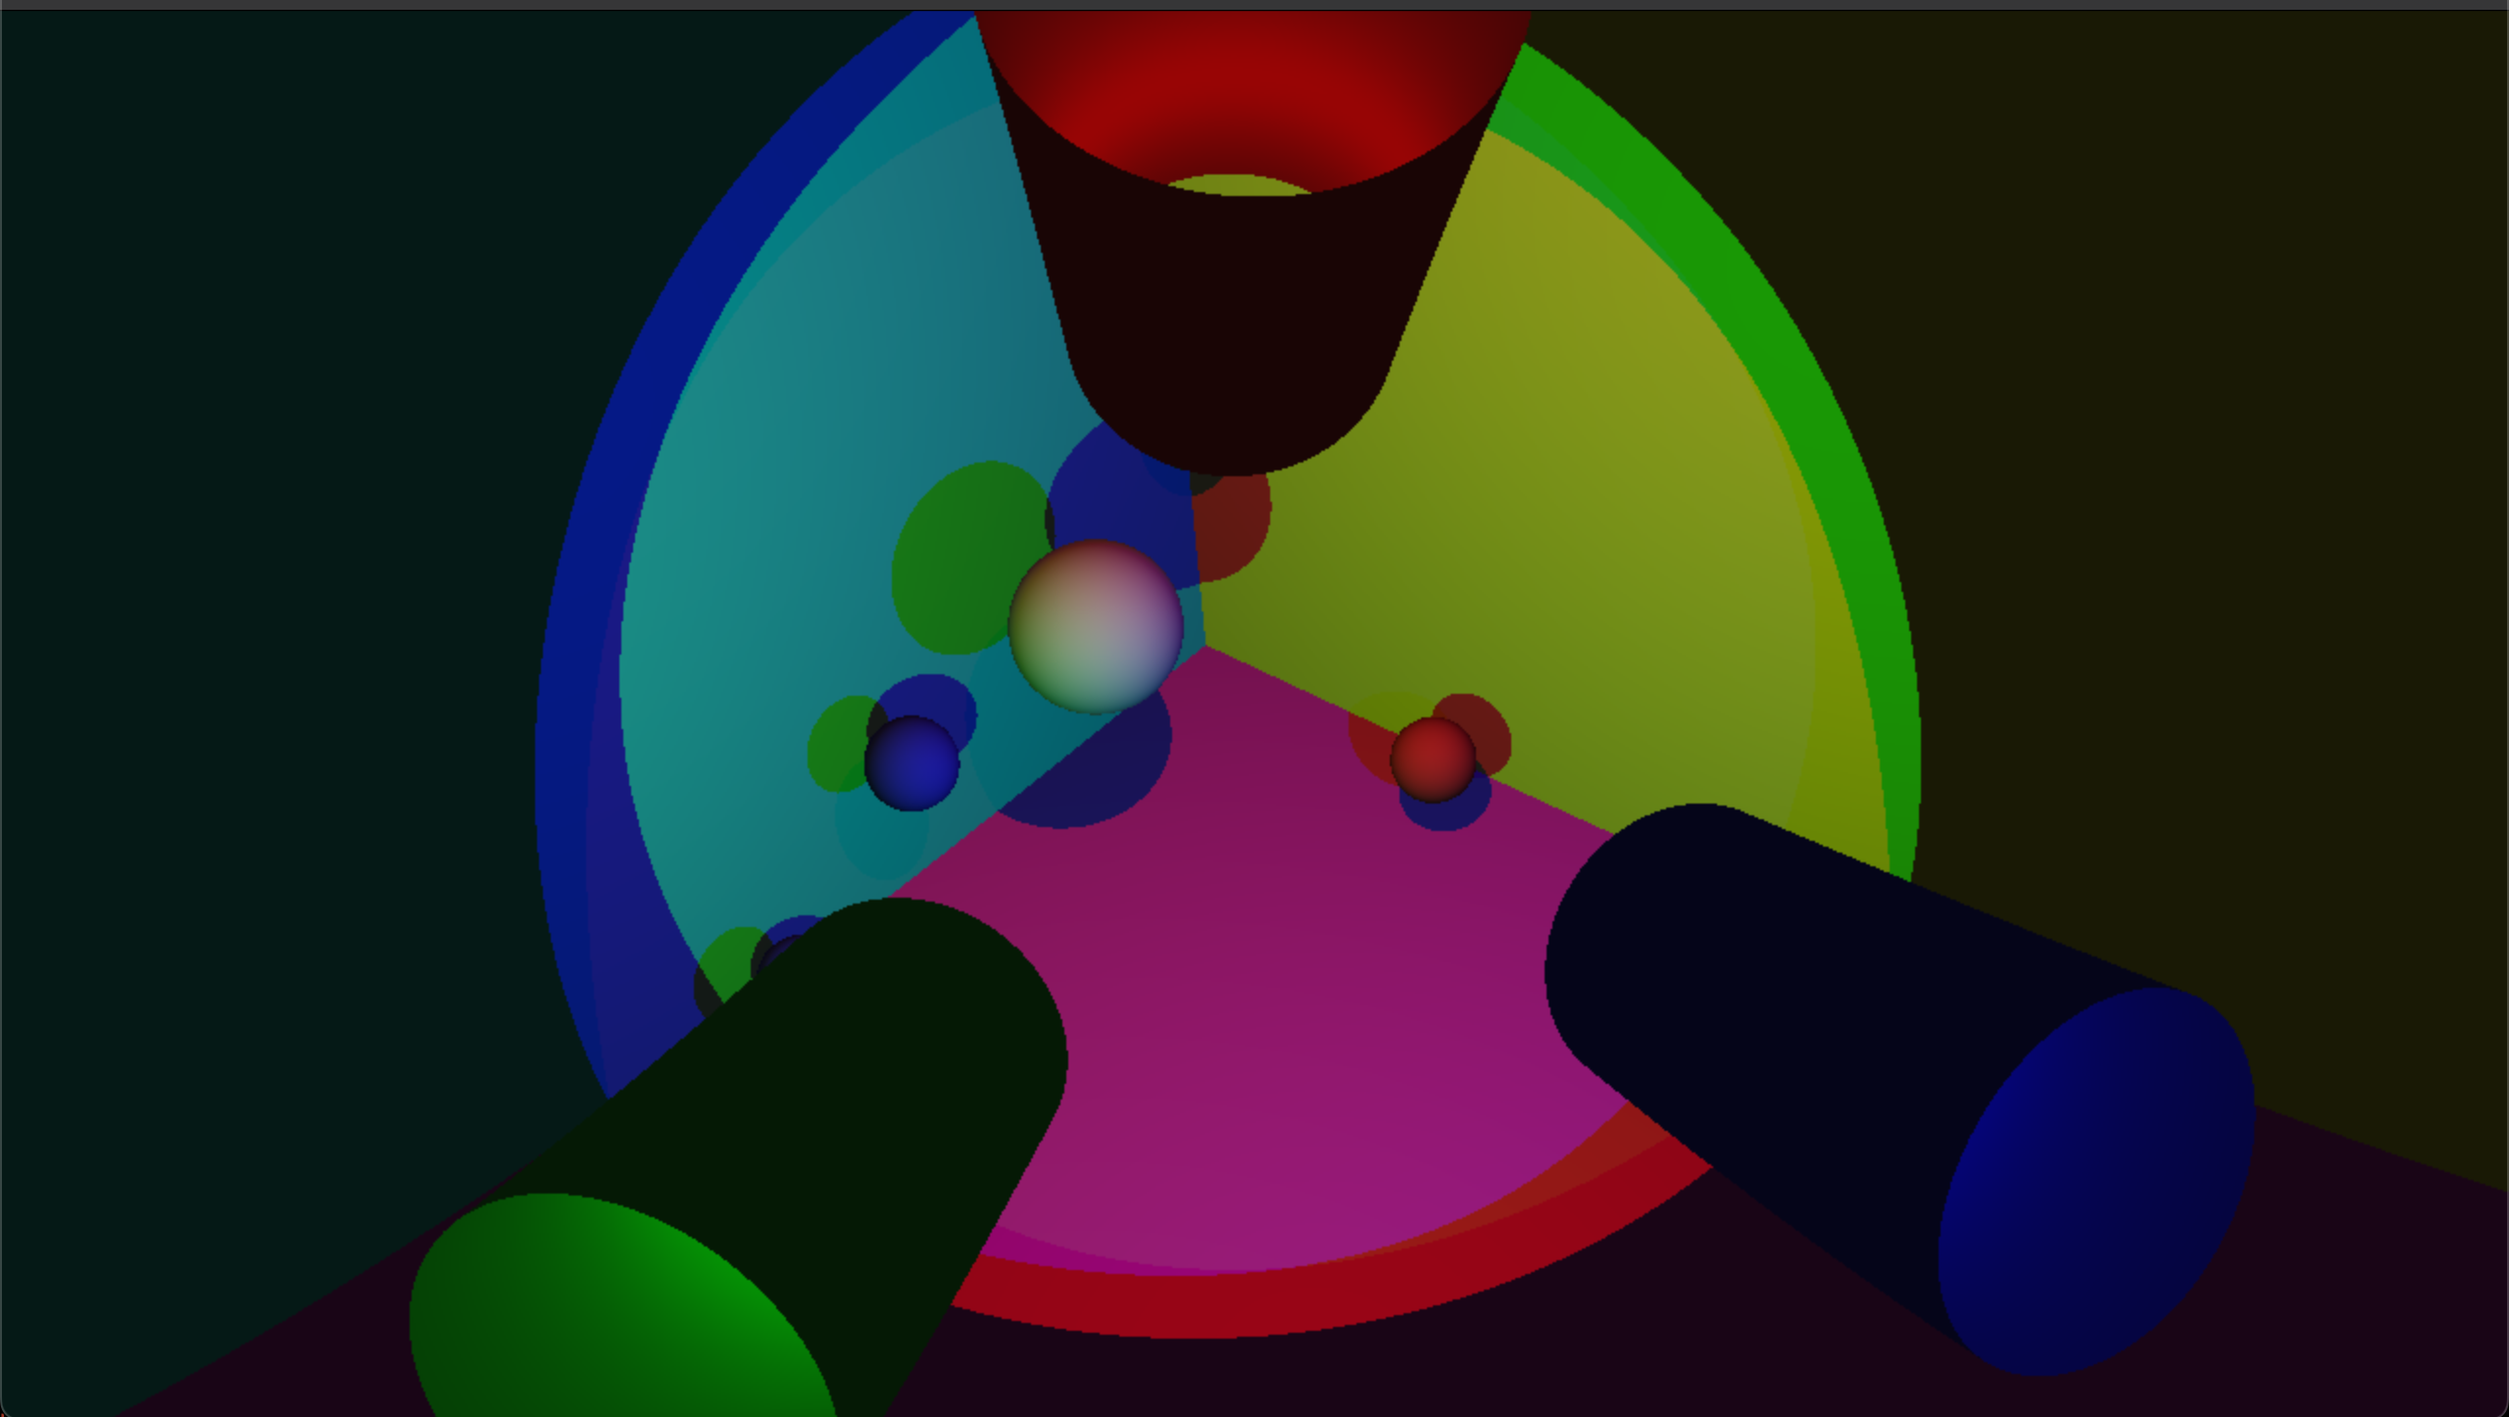
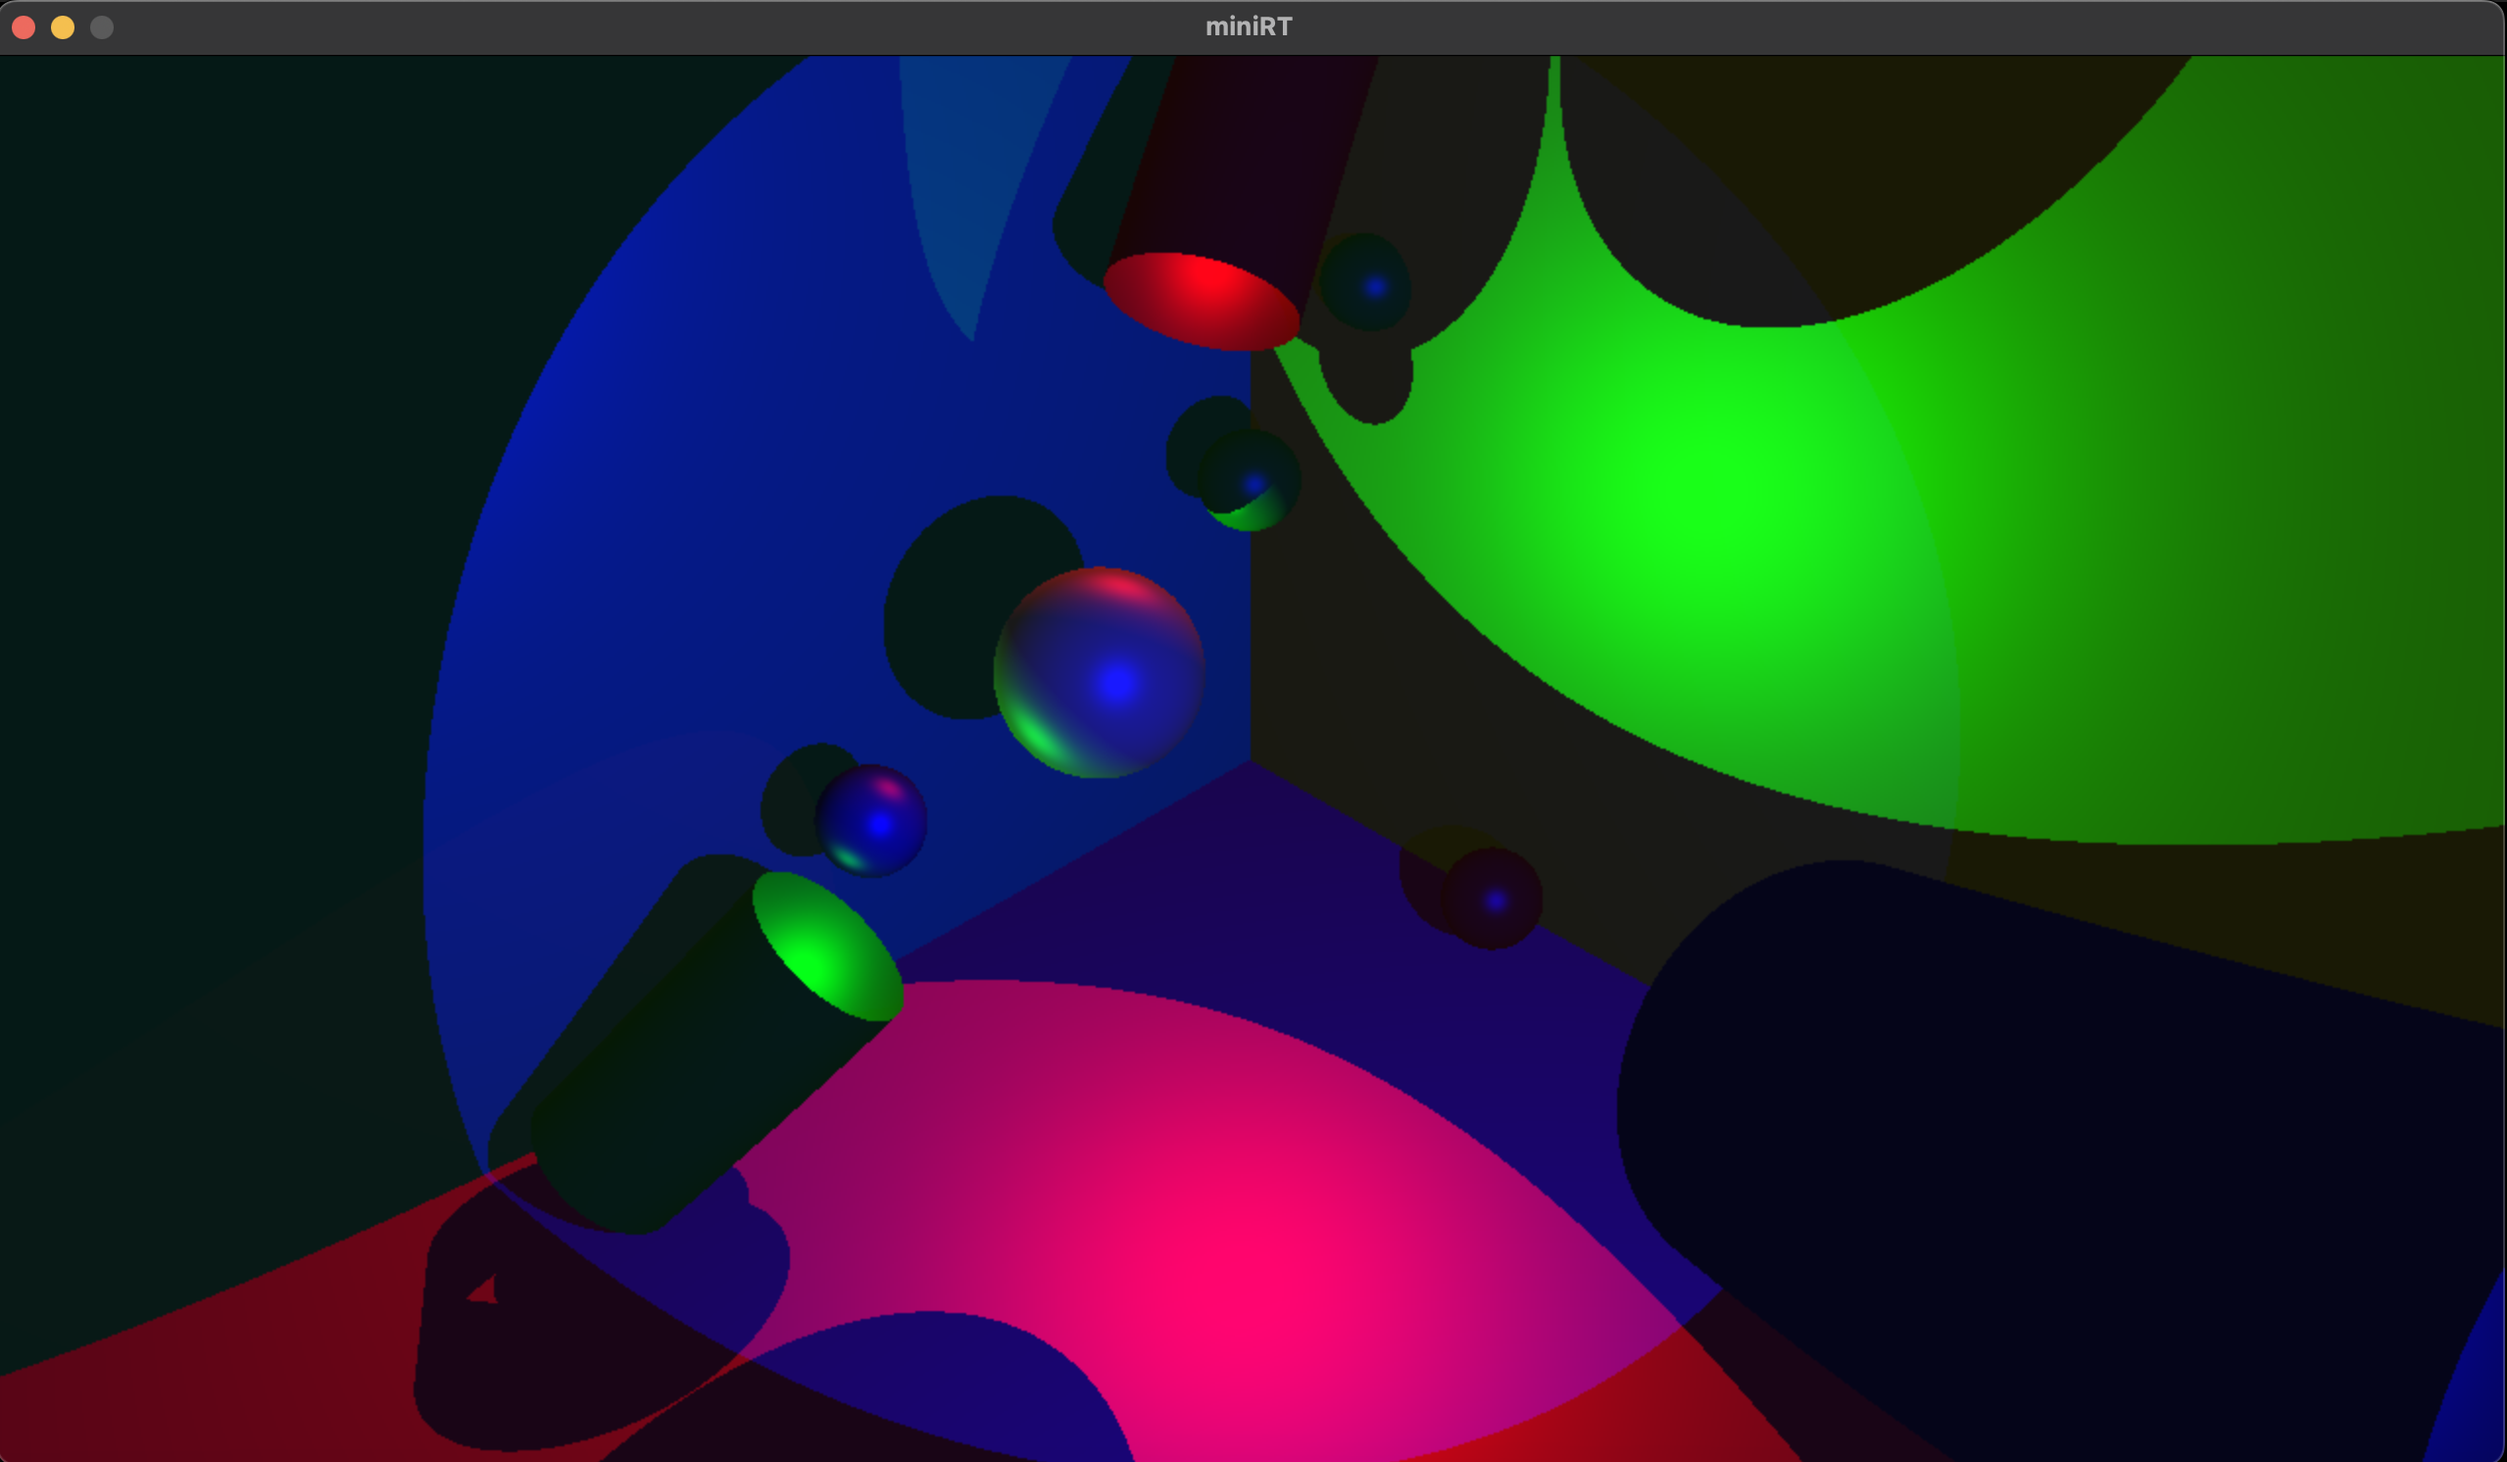
new     :   Added specular light process
modified:   Makefile
	modified:   README.md
	modified:   hdr/dataRT.h
	modified:   hdr/miniRT.h
	modified:   maps/test.rt
	modified:   render.png
	modified:   src/ft_addrgb.c
	modified:   src/ft_ambrgb.c
	modified:   src/ft_ligrgb.c
	modified:   src/ft_pars_coord_rgb.c
	modified:   src/ft_raytra.c
	modified:   src/ft_rgbtoi.c
	modified:   src/ft_setrgb.c
	modified:   src/ft_shades.c

diff --git a/hdr/miniRT.h b/hdr/miniRT.h
@@ -6,7 +6,7 @@
 /*   By: efunes <efunes@student.42.fr>              +#+  +:+       +#+        */
 /*                                                +#+#+#+#+#+   +#+           */
 /*   Created: 2022/11/25 00:15:04 by alfux             #+#    #+#             */
-/*   Updated: 2023/01/13 12:43:38 by alfux            ###   ########.fr       */
+/*   Updated: 2023/01/24 01:24:24 by alfux            ###   ########.fr       */
 /*                                                                            */
 /* ************************************************************************** */
 
@@ -76,8 +76,9 @@ t_list		*ft_syscyl(t_vec const *dir, t_vec const *pov, t_cyl const *cyl);
 double		ft_cylhgt(t_vec const *p, t_cyl const *c);
 int			ft_is_val(t_vec const *v);
 t_rgb		ft_addrgb(t_rgb c1, t_rgb c2);
-t_rgb		ft_ligrgb(t_rgb const *rgb, t_lig const *lig, double i);
 t_rgb		ft_ambrgb(t_rgb const *rgb, t_amb const *amb);
+t_rgb		ft_ligrgb(t_itr const *vtx, t_vec const *ray, t_lig const *lig,
+				double i);
 
 //Other tools
 int			ft_free(void *ptr);
@@ -108,7 +109,7 @@ void		ft_render(t_win const *win);
 t_vec		ft_getdir(t_win const *win, uint32_t i, uint32_t j);
 uint32_t	ft_raytra(t_win const *win, t_vec const *ray, t_obj const *obj);
 int			ft_deadzn(t_vec const *vec, t_vec const *ctr, double rad);
-t_rgb		ft_shades(t_win const *win, t_list *itr);
+t_rgb		ft_shades(t_win const *win, t_vec const *ray, t_list *itr);
 
 //Easter eggs
 void		ft_eeggs(t_cam *cam);

diff --git a/src/ft_ligrgb.c b/src/ft_ligrgb.c
@@ -6,18 +6,29 @@
 /*   By: alfux <alexis.t.fuchs@gmail.com>           +#+  +:+       +#+        */
 /*                                                +#+#+#+#+#+   +#+           */
 /*   Created: 2023/01/11 12:47:21 by alfux             #+#    #+#             */
-/*   Updated: 2023/01/13 14:13:23 by alfux            ###   ########.fr       */
+/*   Updated: 2023/01/24 01:18:26 by alfux            ###   ########.fr       */
 /*                                                                            */
 /* ************************************************************************** */
 
 #include <miniRT.h>
 
-t_rgb	ft_ligrgb(t_rgb const *rgb, t_lig const *lig, double i)
+t_rgb	ft_ligrgb(t_itr const *vtx, t_vec const *ray, t_lig const *lig,
+	double i)
 {
 	t_rgb	res;
+	t_vec	dir;
+	double	j;
 
-	res.r = lig->col.r * lig->rat * i * rgb->r / 255;
-	res.g = lig->col.g * lig->rat * i * rgb->g / 255;
-	res.b = lig->col.b * lig->rat * i * rgb->b / 255;
+	j = 0;
+	if (i > 0)
+	{
+		dir = ft_dif_uv(lig->pos, vtx->vtx);
+		dir = ft_dif_uv(ft_multlv(2 * ft_scalar(dir, vtx->nml), vtx->nml), dir);
+		j = fmin(1,
+				lig->rat * pow(fmax(0, -ft_scalar(ft_nrmlze(dir), *ray)), 10));
+	}
+	res.r = lig->col.r * fmin(1, j + lig->rat * i * vtx->col.r / 255);
+	res.g = lig->col.g * fmin(1, j + lig->rat * i * vtx->col.g / 255);
+	res.b = lig->col.b * fmin(1, j + lig->rat * i * vtx->col.b / 255);
 	return (res);
 }

diff --git a/src/ft_shades.c b/src/ft_shades.c
@@ -6,7 +6,7 @@
 /*   By: alfux <alexis.t.fuchs@gmail.com>           +#+  +:+       +#+        */
 /*                                                +#+#+#+#+#+   +#+           */
 /*   Created: 2023/01/05 17:21:09 by alfux             #+#    #+#             */
-/*   Updated: 2023/01/13 12:42:02 by alfux            ###   ########.fr       */
+/*   Updated: 2023/01/24 00:24:53 by alfux            ###   ########.fr       */
 /*                                                                            */
 /* ************************************************************************** */
 
@@ -73,7 +73,7 @@ static int	ft_shadow(t_win const *win, t_vec const *vtx, t_vec const *lpos)
 	return (0);
 }
 
-t_rgb	ft_shades(t_win const *win, t_list *itr)
+t_rgb	ft_shades(t_win const *win, t_vec const *ray, t_list *itr)
 {
 	double	i;
 	t_obj	*lst;
@@ -94,7 +94,7 @@ t_rgb	ft_shades(t_win const *win, t_list *itr)
 			i = fabs(i);
 		if (ft_shadow(win, &vtx->vtx, &lig->pos))
 			i = 0;
-		rgb = ft_addrgb(rgb, ft_ligrgb(&vtx->col, lig, i));
+		rgb = ft_addrgb(rgb, ft_ligrgb(vtx, ray, lig, i));
 		lst = lst->next;
 	}
 	rgb = ft_addrgb(rgb, ft_ambrgb(&vtx->col, &win->scn.amb));

diff --git a/src/ft_addrgb.c b/src/ft_addrgb.c
@@ -6,7 +6,7 @@
 /*   By: alfux <alexis.t.fuchs@gmail.com>           +#+  +:+       +#+        */
 /*                                                +#+#+#+#+#+   +#+           */
 /*   Created: 2023/01/11 14:32:52 by alfux             #+#    #+#             */
-/*   Updated: 2023/01/13 15:08:09 by alfux            ###   ########.fr       */
+/*   Updated: 2023/01/24 00:25:55 by alfux            ###   ########.fr       */
 /*                                                                            */
 /* ************************************************************************** */
 
@@ -14,16 +14,10 @@
 
 t_rgb	ft_addrgb(t_rgb c1, t_rgb c2)
 {
-	uint16_t	r;
-	uint16_t	g;
-	uint16_t	b;
-	uint16_t	max;
+	t_rgb	sum;
 
-	r = c1.r + c2.r;
-	g = c1.g + c2.g;
-	b = c1.b + c2.b;
-	max = fmax(fmax(r, g), b);
-	if (r > 255 || g > 255 || b > 255)
-		return (ft_setrgb(r * 255 / max, g * 255 / max, b * 255 / max));
-	return (ft_setrgb(r, g, b));
+	sum.r = fmin(255, c1.r + c2.r);
+	sum.g = fmin(255, c1.g + c2.g);
+	sum.b = fmin(255, c1.b + c2.b);
+	return (sum);
 }

diff --git a/src/ft_pars_coord_rgb.c b/src/ft_pars_coord_rgb.c
@@ -6,7 +6,7 @@
 /*   By: efunes <efunes@student.42.fr>              +#+  +:+       +#+        */
 /*                                                +#+#+#+#+#+   +#+           */
 /*   Created: 2022/12/22 18:23:33 by efunes            #+#    #+#             */
-/*   Updated: 2022/12/30 13:17:08 by efunes           ###   ########.fr       */
+/*   Updated: 2023/01/19 21:11:39 by alfux            ###   ########.fr       */
 /*                                                                            */
 /* ************************************************************************** */
 
@@ -125,8 +125,8 @@ int	ft_rgb(t_rgb *rgb, char **str)
 	if (tmp[0] > 255 || tmp[1] > 255 || tmp[2] > 255
 		|| tmp[0] < 0 || tmp[1] < 0 || tmp[2] < 0)
 		return (5);
-	rgb->r = (char)tmp[0];
-	rgb->g = (char)tmp[1];
-	rgb->b = (char)tmp[2];
+	rgb->r = (unsigned char)tmp[0];
+	rgb->g = (unsigned char)tmp[1];
+	rgb->b = (unsigned char)tmp[2];
 	return (ft_opacity(rgb, str));
 }

diff --git a/src/ft_raytra.c b/src/ft_raytra.c
@@ -6,7 +6,7 @@
 /*   By: alfux <alexis.t.fuchs@gmail.com>           +#+  +:+       +#+        */
 /*                                                +#+#+#+#+#+   +#+           */
 /*   Created: 2023/01/05 16:46:15 by alfux             #+#    #+#             */
-/*   Updated: 2023/01/05 19:57:33 by alfux            ###   ########.fr       */
+/*   Updated: 2023/01/17 08:41:00 by alfux            ###   ########.fr       */
 /*                                                                            */
 /* ************************************************************************** */
 
@@ -77,7 +77,7 @@ uint32_t	ft_raytra(t_win const *win, t_vec const *ray, t_obj const *obj)
 	ft_keep_face_cam(&itr, &win->scn.cam->pov, ray);
 	if (!itr)
 		return (0);
-	rgb = ft_shades(win, ft_closer_to_pov(itr, &win->scn.cam->pov));
+	rgb = ft_shades(win, ray, ft_closer_to_pov(itr, &win->scn.cam->pov));
 	ft_lstclear(&itr, &free);
 	return (ft_rgbtoi(rgb));
 }

diff --git a/hdr/dataRT.h b/hdr/dataRT.h
@@ -6,7 +6,7 @@
 /*   By: efunes <efunes@student.42.fr>              +#+  +:+       +#+        */
 /*                                                +#+#+#+#+#+   +#+           */
 /*   Created: 2022/11/25 00:15:04 by alfux             #+#    #+#             */
-/*   Updated: 2023/01/11 15:43:21 by alfux            ###   ########.fr       */
+/*   Updated: 2023/01/24 00:22:39 by alfux            ###   ########.fr       */
 /*                                                                            */
 /* ************************************************************************** */
 
@@ -73,10 +73,10 @@ typedef struct s_3x3	t_3x3;
 //Color data structure
 struct					s_rgb
 {
+	unsigned char	a;
 	unsigned char	r;
 	unsigned char	g;
 	unsigned char	b;
-	unsigned char	a;
 };
 typedef struct s_rgb	t_rgb;
 

diff --git a/src/ft_rgbtoi.c b/src/ft_rgbtoi.c
@@ -6,12 +6,12 @@
 /*   By: alfux <alexis.t.fuchs@gmail.com>           +#+  +:+       +#+        */
 /*                                                +#+#+#+#+#+   +#+           */
 /*   Created: 2022/12/08 12:10:23 by alfux             #+#    #+#             */
-/*   Updated: 2022/12/08 12:11:22 by alfux            ###   ########.fr       */
+/*   Updated: 2023/01/23 20:41:55 by alfux            ###   ########.fr       */
 /*                                                                            */
 /* ************************************************************************** */
 #include <miniRT.h>
 
 uint32_t	ft_rgbtoi(t_rgb rgb)
 {
-	return (rgb.b + (rgb.g << 8) + (rgb.r << 16));
+	return (rgb.b + (rgb.g << 8) + (rgb.r << 16) + (0 << 24));
 }

diff --git a/src/ft_setrgb.c b/src/ft_setrgb.c
@@ -6,7 +6,7 @@
 /*   By: alfux <alexis.t.fuchs@gmail.com>           +#+  +:+       +#+        */
 /*                                                +#+#+#+#+#+   +#+           */
 /*   Created: 2022/11/28 12:39:55 by alfux             #+#    #+#             */
-/*   Updated: 2022/11/28 12:41:11 by alfux            ###   ########.fr       */
+/*   Updated: 2023/01/24 00:25:33 by alfux            ###   ########.fr       */
 /*                                                                            */
 /* ************************************************************************** */
 #include <miniRT.h>

diff --git a/src/ft_ambrgb.c b/src/ft_ambrgb.c
@@ -6,7 +6,7 @@
 /*   By: alfux <alexis.t.fuchs@gmail.com>           +#+  +:+       +#+        */
 /*                                                +#+#+#+#+#+   +#+           */
 /*   Created: 2023/01/11 17:51:23 by alfux             #+#    #+#             */
-/*   Updated: 2023/01/13 14:14:03 by alfux            ###   ########.fr       */
+/*   Updated: 2023/01/24 00:24:39 by alfux            ###   ########.fr       */
 /*                                                                            */
 /* ************************************************************************** */
 

diff --git a/README.md b/README.md
@@ -17,7 +17,8 @@
 <br />☛ Wednesday December 28th 04:28: We can now move camera properly in low resolution
 <br />☛ Thursday December 29th 01:12: Changed float for double to improve precision
 <br />☛	Friday January 6th 17:17: Added full support of .obj files. (Heavy operations tho)
-<br />☛	Friday Janyary 13th 15:09: Added multi-lightning and color-lightning
+<br />☛	Friday January 13th 15:09: Added multi-lightning and color-lightning
+<br />☛ Tuesday January 24th 01:19: Added Specular reflections
 ## Bonus ideas
 ☛ Anti-aliasing ?
 <br />☛ Use of GPU to have a moving camera ?
